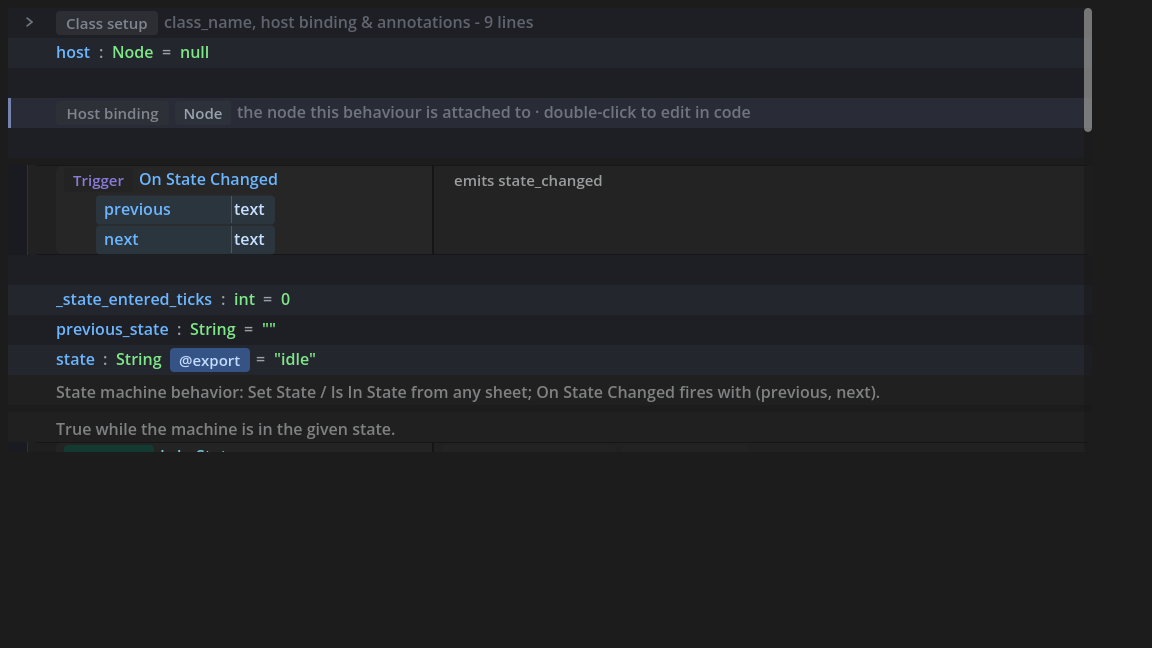
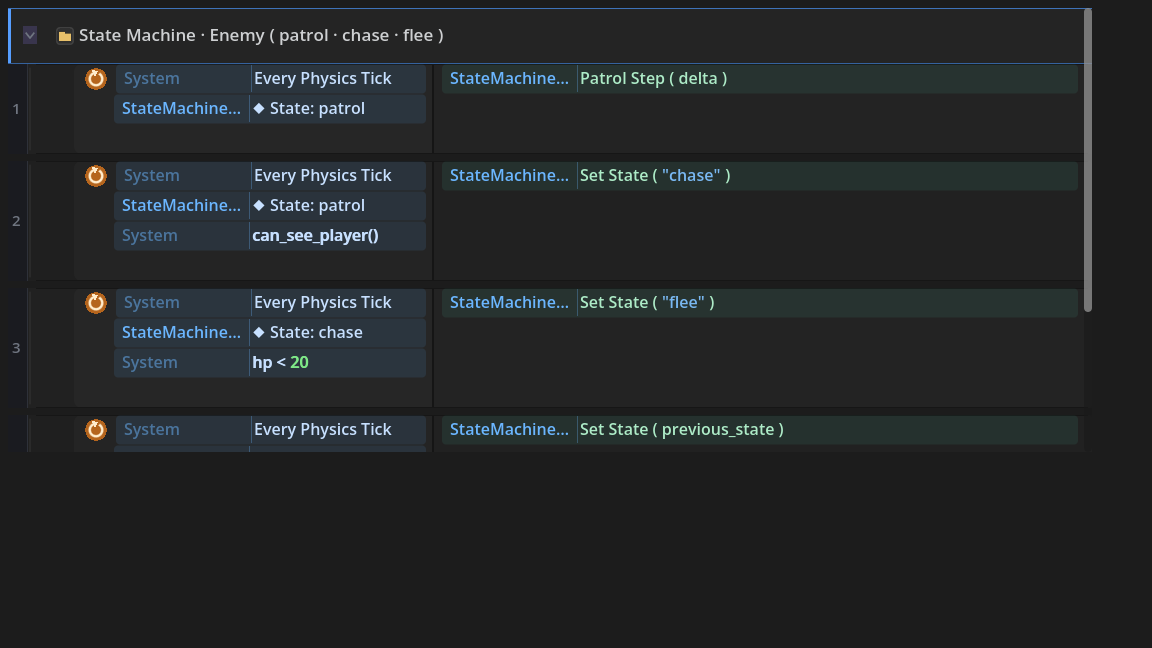
feat(editor): state machines read like the mockup
Is In State renders as a '◆ State: <name>' header (keyed on the method
shape, any state-machine-like behavior qualifies); OnPhysicsProcess is
displayed 'Every Physics Tick' and lifted trigger ids get the descriptor
fallback the condition path always had; the signal row's 'Trigger'/'Signal'
word pill becomes the narrow glyph badge every event row uses. 'State' key
ships in all bundled locales; guide screenshot is now the consumer view.

diff --git a/CHANGELOG.md b/CHANGELOG.md
@@ -14,6 +14,18 @@ non-Node host compiles with a warning instead of broken code. The generated trio
 name-addressed: reopening the emitted `.gd` as a sheet lifts it into ordinary rows, and saving
 again emits no second copy - the reopen cycle stays byte-identical.
 
+### Added - state machines read like state machines
+
+Three display-only views (rows and compiled output untouched):
+
+- An **Is In State** condition renders as a state header - `◆ State: patrol` - keyed on the
+  method shape, so any state-machine-like behavior gets the reading, not just the bundled pack.
+- **Every Physics Tick** is now that trigger's name everywhere (was "On Physics Process"), and a
+  lifted trigger id resolves its friendly name through the same descriptor fallback conditions
+  always had - no more raw `OnPhysicsProcess` in the condition lane.
+- A published signal row's kind cue is the narrow glyph badge every event row uses; the
+  "Trigger"/"Signal" word pill is gone.
+
 ### Added - the Common Game Patterns guide, with screenshots
 
 `docs/GUIDE-COMMON-GAME-PATTERNS.md` maps the patterns every game needs - run every X seconds,

diff --git a/docs/GUIDE-COMMON-GAME-PATTERNS.md b/docs/GUIDE-COMMON-GAME-PATTERNS.md
@@ -75,7 +75,7 @@ statement, and transition bookkeeping becomes vocabulary:
   then go back" is `Time In State > 2` then `Set State previous_state`.
 - **previous_state** always holds where you came from.
 
-![The State Machine pack opened as a sheet](images/code-patterns-state-machine.png)
+![A state machine as a consumer writes it: one group, state headers, guarded transitions](images/code-patterns-state-machine.png)
 
 ## Pick one node out of a group
 
